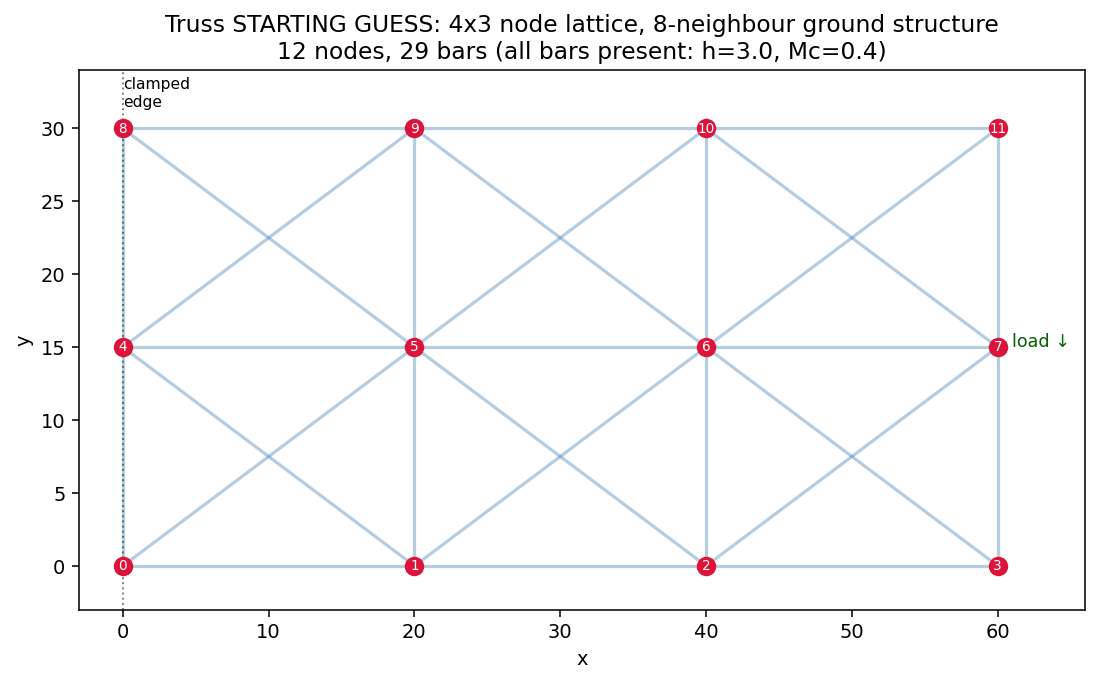
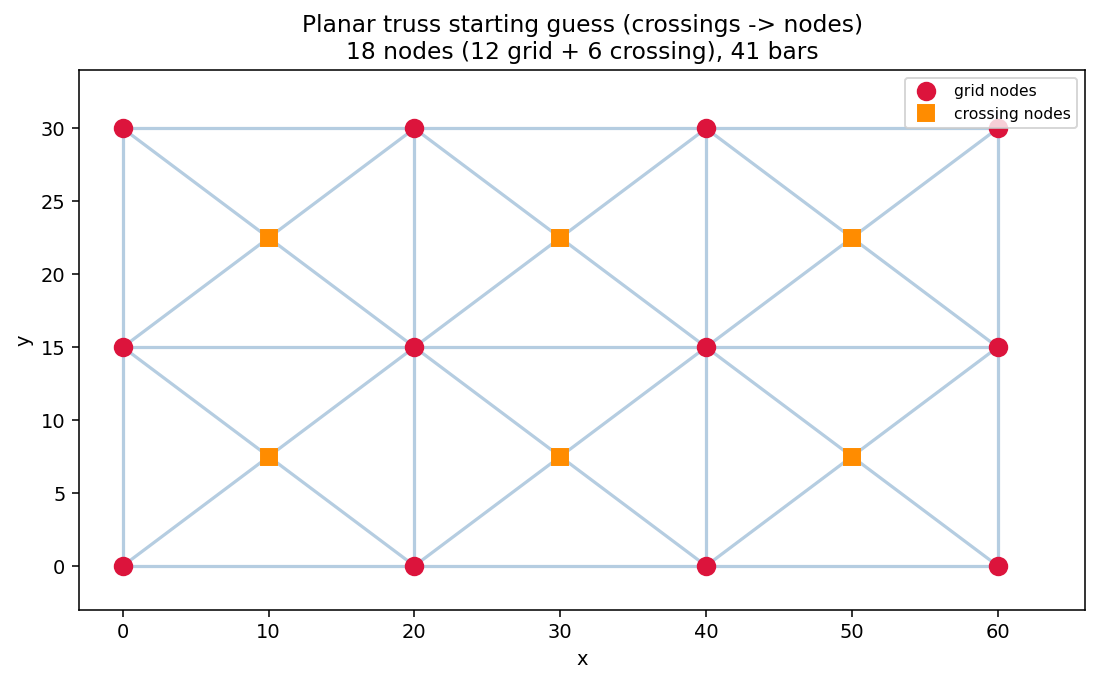
Planarize the truss ground structure: add a node at every crossing
A bar that crosses another bar (or passes through an existing node) without a
joint there is a modeling inconsistency: the members overlap with no real
connection, so a moving node decouples from the bar it visually crosses. Make
the ground structure a proper PLANAR truss instead — _planarize() inserts a node
at every proper bar-bar crossing and splits both bars there, and splits any bar
that passes through an existing node, so every intersection is a genuine joint.

- Each diagonal X in the default 4x3 stencil becomes a 4-way joint: 12 grid
  nodes -> 18 (one crossing node per cell), 29 -> 41 bars.
- Works at any radius: the complete graph planarizes to a pass-through-free truss
  (verified: 0 pass-through bars, 0 crossings-without-node at default/40/complete).
- build_ground_structure(..., planarize=True) by default; planarize=False keeps
  the raw radius graph.
- Updated/added tests (crossing-node count, pass-through-free invariant); refreshed
  the starting-guess figure (grid vs crossing nodes).

Claude-Session: https://claude.ai/code/session_0139M2jyPc6cJGW33xV6te9t

diff --git a/ggp/projection/truss_2d.py b/ggp/projection/truss_2d.py
@@ -43,12 +43,84 @@ from .base import ProjectionMapper
 from .registry import register_mapper
 
 
+def _segment_crossing(p1, p2, p3, p4, tol=1e-9):
+    """Return the proper interior crossing of segments p1p2 and p3p4, else None.
+
+    'Proper interior' means the segments are not parallel and intersect strictly
+    inside *both* (not at a shared endpoint). Endpoint/collinear touches return None
+    (those are handled by the on-segment node split, not by adding a new node).
+    """
+    r = p2 - p1
+    s = p4 - p3
+    rxs = r[0] * s[1] - r[1] * s[0]
+    if abs(rxs) < tol:                       # parallel or collinear
+        return None
+    qp = p3 - p1
+    t = (qp[0] * s[1] - qp[1] * s[0]) / rxs
+    u = (qp[0] * r[1] - qp[1] * r[0]) / rxs
+    if tol < t < 1.0 - tol and tol < u < 1.0 - tol:
+        return p1 + t * r
+    return None
+
+
+def _planarize(nodes: np.ndarray, bars: np.ndarray, tol: float = 1e-6):
+    """Make the ground structure a *planar* truss.
+
+    Wherever two bars cross, a node is inserted at the crossing and both bars are
+    split there; wherever a bar passes through an existing node it is split at that
+    node too. The result is a graph in which every bar intersection is a genuine
+    joint (so a moving node drags all members meeting there, with no decoupled
+    overlapping material). Returns ``(nodes, bars)`` with the added nodes appended.
+    """
+    pts = [np.asarray(n, float) for n in nodes]
+
+    def get_node(p):
+        for i, q in enumerate(pts):
+            if np.hypot(*(q - p)) < tol:
+                return i
+        pts.append(np.asarray(p, float))
+        return len(pts) - 1
+
+    # 1. Insert a node at every proper bar-bar crossing.
+    for i in range(len(bars)):
+        a, c = bars[i]
+        for j in range(i + 1, len(bars)):
+            e, f = bars[j]
+            if len({int(a), int(c), int(e), int(f)}) < 4:
+                continue                      # share an endpoint -> not a crossing
+            x = _segment_crossing(pts[a], pts[c], pts[e], pts[f])
+            if x is not None:
+                get_node(x)
+
+    # 2. Re-split every original bar at all nodes lying on it (endpoints, crossings,
+    #    and collinear pass-throughs), emitting the chain of primitive sub-segments.
+    P = np.asarray(pts)
+    new_bars = set()
+    for (a, c) in bars:
+        pa, pc = P[a], P[c]
+        d = pc - pa
+        L2 = float(d @ d)
+        on = []
+        for k in range(len(P)):
+            t = float((P[k] - pa) @ d) / L2
+            if -tol <= t <= 1.0 + tol and np.hypot(*(P[k] - (pa + t * d))) < tol:
+                on.append((t, k))
+        on.sort()
+        for (_, k1), (_, k2) in zip(on, on[1:]):
+            if k1 != k2:
+                new_bars.add((min(k1, k2), max(k1, k2)))
+
+    bars_out = np.asarray(sorted(new_bars), dtype=int).reshape(-1, 2)
+    return P, bars_out
+
+
 def build_ground_structure(
     grid_nx: int,
     grid_ny: int,
     Lx: float,
     Ly: float,
     radius: float | None = None,
+    planarize: bool = True,
 ) -> Tuple[np.ndarray, np.ndarray]:
     """Build a node grid and a radius-based bar connectivity.
 
@@ -67,11 +139,17 @@ def build_ground_structure(
         connects to its 8 orthogonal + diagonal neighbours (the classic
         ground-structure stencil).  A larger radius adds longer bars and, in the
         limit, yields the complete graph.
+    planarize : bool, default True
+        Make the structure a planar truss: add a node at every bar-bar crossing and
+        split the bars there, and split any bar that passes through an existing node
+        (see :func:`_planarize`). This turns each diagonal X into a real 4-way joint
+        and removes collinear pass-through overlaps, so every intersection is a
+        genuine connection point. Set ``False`` to keep the raw radius graph.
 
     Returns
     -------
     nodes : ndarray, shape (N, 2)
-        Node coordinates, row-major (x fastest).
+        Node coordinates, row-major (x fastest); any crossing nodes are appended.
     bars : ndarray, shape (B, 2), int
         Node-index pairs, ``i < j`` for each bar, sorted.
     """
@@ -91,6 +169,9 @@ def build_ground_structure(
     iu, ju = np.triu_indices(len(nodes), k=1)
     mask = dist[iu, ju] <= radius + 1e-9
     bars = np.column_stack([iu[mask], ju[mask]]).astype(int)
+
+    if planarize and len(bars):
+        nodes, bars = _planarize(nodes, bars)
     return nodes, bars
 
 

diff --git a/tests/test_truss_mapper.py b/tests/test_truss_mapper.py
@@ -17,8 +17,27 @@ from ggp.projection.registry import get_mapper
 # --------------------------------------------------------------------------- #
 # Ground-structure connectivity
 # --------------------------------------------------------------------------- #
+def _passthrough_count(nodes, bars, tol=1e-6):
+    """Number of bars that pass through some other node (should be 0 when planar)."""
+    bad = 0
+    for (a, c) in bars:
+        pa, pc = nodes[a], nodes[c]
+        d = pc - pa
+        L2 = float(d @ d)
+        for k in range(len(nodes)):
+            if k in (a, c):
+                continue
+            t = float((nodes[k] - pa) @ d) / L2
+            if t <= tol or t >= 1.0 - tol:
+                continue
+            if np.hypot(*(nodes[k] - (pa + t * d))) < tol:
+                bad += 1
+                break
+    return bad
+
+
 def test_ground_structure_node_grid_is_row_major():
-    nodes, bars = build_ground_structure(3, 2, 60.0, 30.0)
+    nodes, bars = build_ground_structure(3, 2, 60.0, 30.0, planarize=False)
     assert nodes.shape == (6, 2)
     # x fastest: first row y=0 at x=0,30,60 ; second row y=30
     np.testing.assert_allclose(nodes[:3], [[0, 0], [30, 0], [60, 0]])
@@ -30,8 +49,9 @@ def test_ground_structure_node_grid_is_row_major():
 
 def test_ground_structure_radius_controls_density():
     # tiny radius -> only the closest neighbours; huge radius -> complete graph
-    _, sparse = build_ground_structure(3, 3, 60.0, 60.0, radius=21.0)   # only orthogonal (d=30)?
-    _, dense = build_ground_structure(3, 3, 60.0, 60.0, radius=1e6)
+    # (compare the raw radius graph, before planarization changes the counts)
+    _, sparse = build_ground_structure(3, 3, 60.0, 60.0, radius=21.0, planarize=False)
+    _, dense = build_ground_structure(3, 3, 60.0, 60.0, radius=1e6, planarize=False)
     n = 9
     assert len(dense) == n * (n - 1) // 2          # complete graph
     assert len(sparse) < len(dense)
@@ -39,10 +59,35 @@ def test_ground_structure_radius_controls_density():
 
 def test_default_radius_connects_eight_neighbours():
     # interior node of a 3x3 lattice should reach all 8 neighbours by default
-    nodes, bars = build_ground_structure(3, 3, 60.0, 60.0)
+    nodes, bars = build_ground_structure(3, 3, 60.0, 60.0, planarize=False)
     centre = 4                                       # middle node of row-major 3x3
     deg = np.sum((bars[:, 0] == centre) | (bars[:, 1] == centre))
     assert deg == 8
+
+
+# --------------------------------------------------------------------------- #
+# Planarization: crossings become nodes, no pass-through overlaps
+# --------------------------------------------------------------------------- #
+def test_planarize_adds_crossing_nodes_and_removes_passthrough():
+    raw_n, raw_b = build_ground_structure(4, 3, 60.0, 30.0, planarize=False)
+    pl_n, pl_b = build_ground_structure(4, 3, 60.0, 30.0, planarize=True)
+    # each of the 3x2 = 6 cells contributes one diagonal-crossing node
+    assert len(pl_n) == len(raw_n) + 6
+    assert len(pl_b) > len(raw_b)
+    # the planar truss has no bar passing through a node...
+    assert _passthrough_count(pl_n, pl_b) == 0
+    # ...whereas the raw complete graph does
+    cg_n, cg_b = build_ground_structure(4, 3, 60.0, 30.0, radius=1e6, planarize=False)
+    assert _passthrough_count(cg_n, cg_b) > 0
+
+
+def test_planarize_complete_graph_is_clean():
+    # even the complete graph planarizes to a pass-through-free truss
+    n, b = build_ground_structure(4, 3, 60.0, 30.0, radius=1e6, planarize=True)
+    assert _passthrough_count(n, b) == 0
+    # every bar is a real segment between two distinct existing nodes
+    assert np.all(b[:, 0] != b[:, 1])
+    assert len(np.unique(b, axis=0)) == len(b)
 
 
 # --------------------------------------------------------------------------- #
